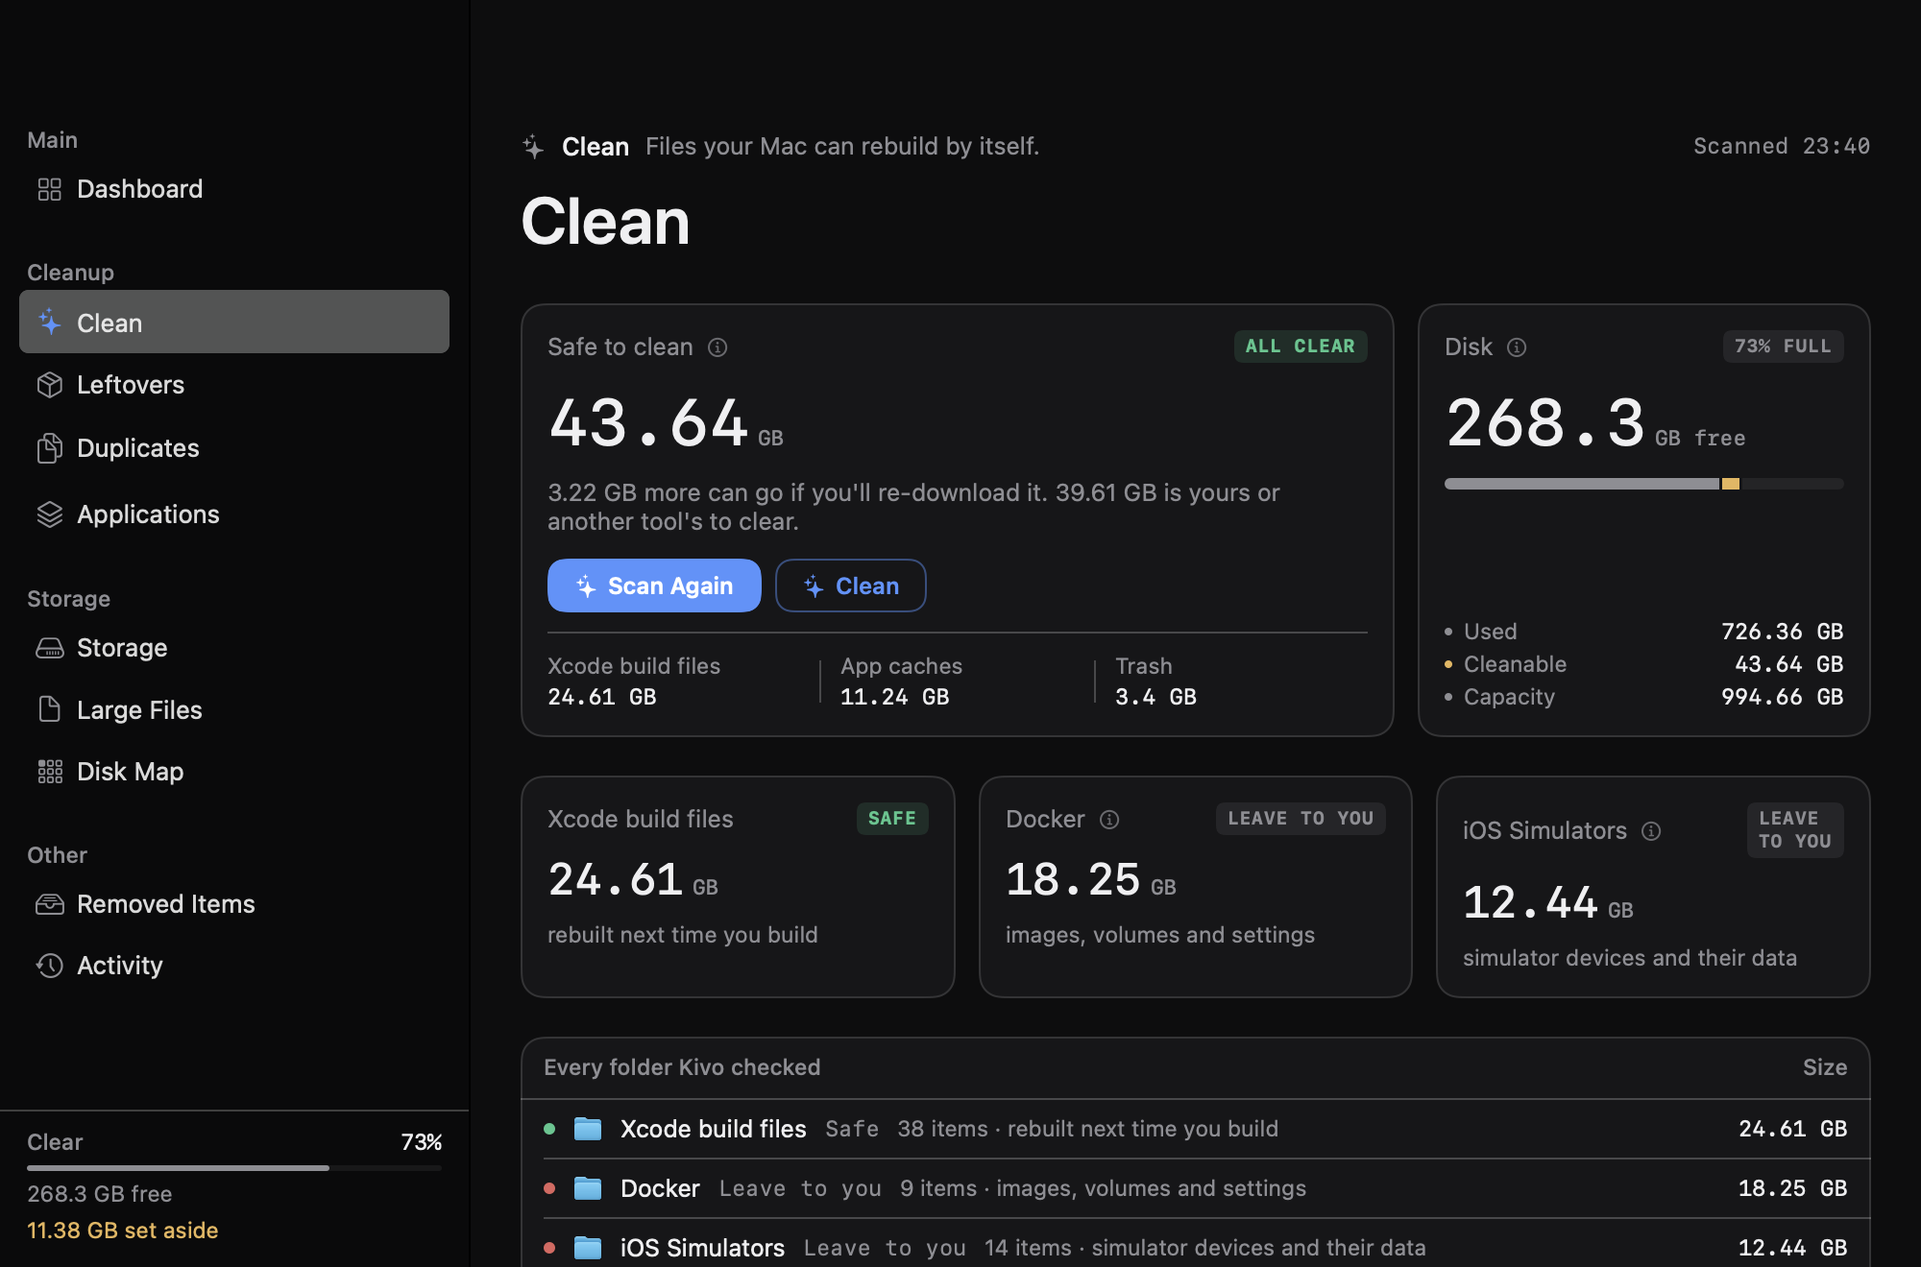
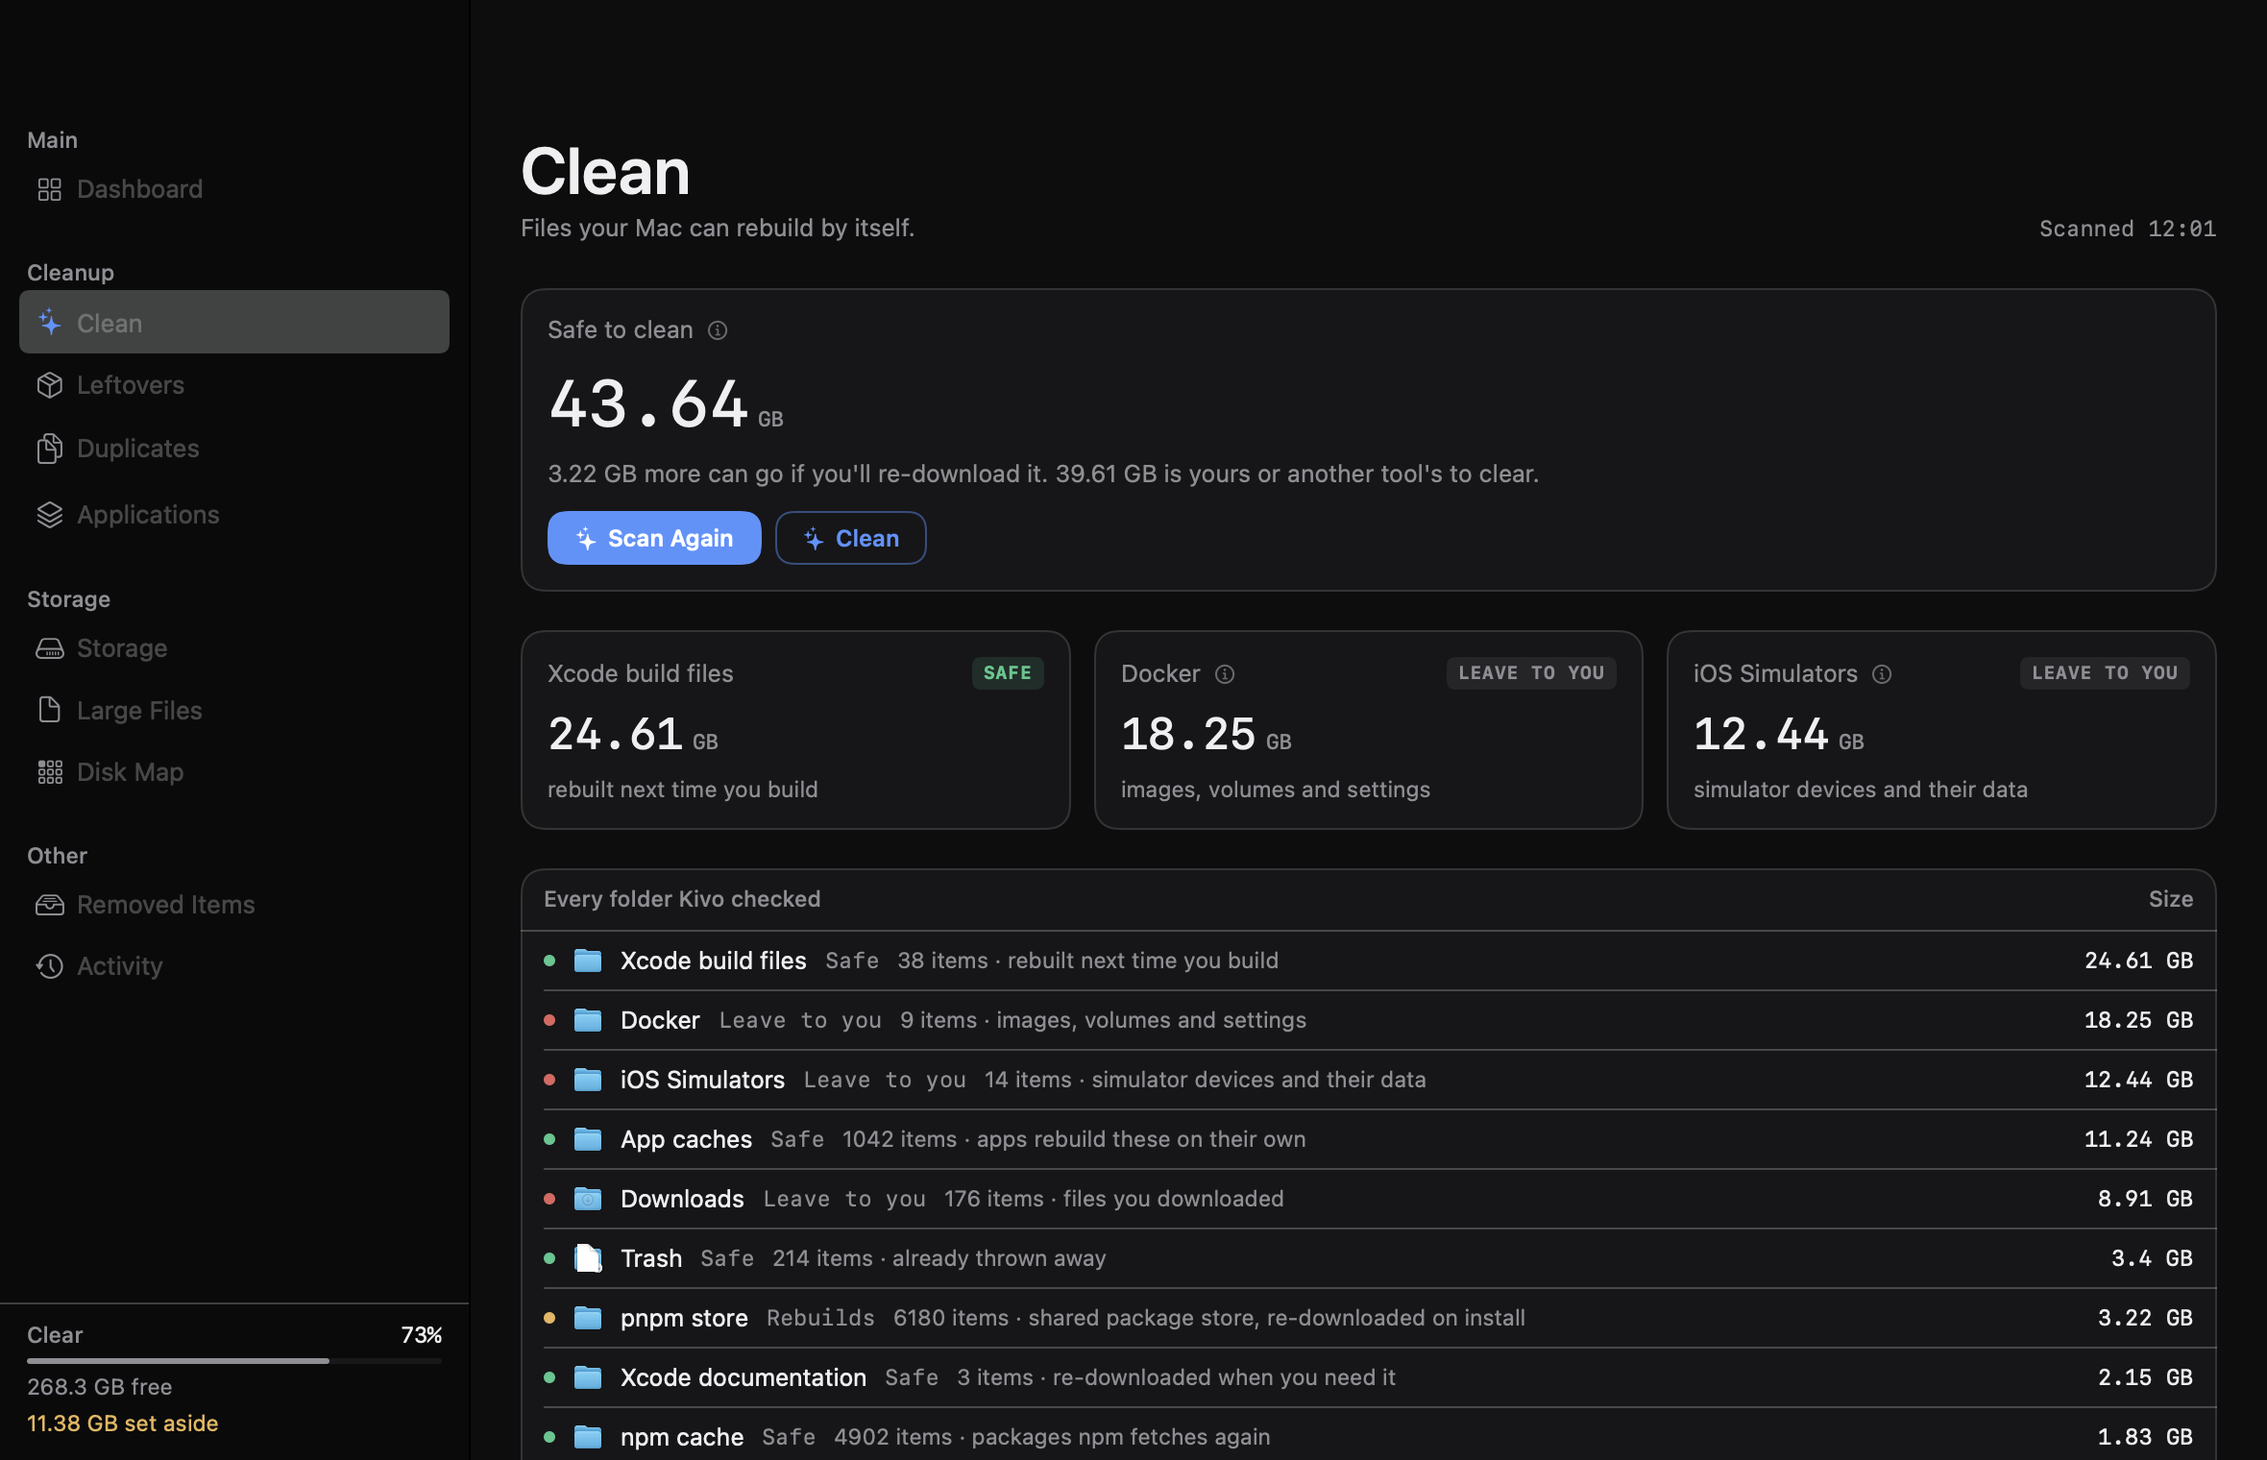
Stop every page from saying the same thing three times
Looking at all ten pages side by side, the messiness was repetition, not
styling. Storage printed 726.36 GB three times and 268.3 GB four times,
in four type sizes. Activity showed Scans, Cleanups and Set aside in a
strip inside the hero and then again as three cards directly underneath.
Every page named itself in an eyebrow and then again as the heading two
lines below. The disk card rode along on all ten pages, repeating the
free space and percentage the sidebar shows at all times. And a green
ALL CLEAR pill sat on every card of a healthy Mac, which the theme file
itself argues against.

So: one header block instead of two rows, the hero's breakdown strip
deleted in favour of the cards below it, the disk card only on the
dashboard and Storage, the status pill only when the status isn't good,
and no tile row at all on Storage, where all three tiles restated the
card beside them. The dashboard's Storage tile becomes Leftovers, a page
that had no presence there.

The hero now hugs its content unless there's a disk card to match, and
ByteCountFormatter's "Zero KB" becomes "0 bytes" — it was arriving as a
display-size headline on Activity and reading like a fault.

Screenshots refreshed; the capture waits for a window and sets one size
rather than trusting a fixed delay and whatever frame was left behind.

diff --git a/kivo/UI/ContentView.swift b/kivo/UI/ContentView.swift
@@ -109,6 +109,12 @@ struct PageView: View {
 
     @State private var uninstalling: InstalledApp?
 
+    /// The disk figure is the subject of these two pages and background
+    /// noise on the other eight.
+    private var showsDisk: Bool {
+        section == .overview || section == .storage
+    }
+
     private var config: SectionPageConfig {
         .config(for: section, store: store) { app in
             uninstalling = app
@@ -129,34 +135,30 @@ struct PageView: View {
         }
     }
 
+    /// Title, then what the page is, then when it was measured.
+    ///
+    /// This used to be two rows: an eyebrow naming the section and, under
+    /// it, a heading naming the section again. Every page but the
+    /// dashboard opened by saying its own name twice.
     private var header: some View {
 
-        VStack(alignment: .leading, spacing: 10) {
+        HStack(alignment: .lastTextBaseline, spacing: 12) {
 
-            HStack(spacing: 8) {
+            VStack(alignment: .leading, spacing: 3) {
 
-                Image(systemName: section.icon)
-                    .font(.system(size: 12, weight: .medium))
-                    .foregroundStyle(Color.kivoDim)
-
-                Text(section.title)
-                    .font(.system(size: 13, weight: .medium))
+                Text(section == .overview ? greeting : section.title)
+                    .font(KivoFont.pageTitle)
                     .foregroundStyle(Color.kivoText)
 
                 Text(section.subtitle)
                     .font(KivoFont.body)
                     .foregroundStyle(Color.kivoDim)
                     .lineLimit(1)
-
-                Spacer(minLength: 12)
-
-                headerStamp
             }
 
-            Text(section == .overview ? greeting : section.title)
-                .font(KivoFont.pageTitle)
-                .foregroundStyle(Color.kivoText)
+            Spacer(minLength: 12)
 
+            headerStamp
         }
         .padding(.bottom, 4)
         .accessibilityAddTraits(.isHeader)
@@ -241,21 +243,35 @@ struct PageView: View {
                             config: config,
                             status: status,
                             store: store,
+                            matchesDisk: showsDisk,
                             onOpen: onOpen
                         )
 
-                        DiskCard(store: store)
-                            .frame(width: 236)
-                    }
-                    .fixedSize(horizontal: false, vertical: true)
+                        // Only where the disk is the subject. It used to
+                        // ride along on all ten pages, repeating the free
+                        // space, the percentage and the capacity that the
+                        // sidebar already shows at all times.
+                        if showsDisk {
 
-                    HStack(alignment: .top, spacing: KivoMetrics.gridSpacing) {
-
-                        ForEach(config.tiles) { tile in
-                            MetricCard(tile: tile)
+                            DiskCard(store: store)
+                                .frame(width: 236)
                         }
                     }
                     .fixedSize(horizontal: false, vertical: true)
+
+                    // A page is allowed to have none: an empty row still
+                    // costs a gap in the stack, which reads as something
+                    // failing to load.
+                    if !config.tiles.isEmpty {
+
+                        HStack(alignment: .top, spacing: KivoMetrics.gridSpacing) {
+
+                            ForEach(config.tiles) { tile in
+                                MetricCard(tile: tile)
+                            }
+                        }
+                        .fixedSize(horizontal: false, vertical: true)
+                    }
 
                     // Takes the slack instead of a trailing spacer, so a tall
                     // window grows the list rather than the empty space under it.
@@ -282,6 +298,13 @@ struct HeroCard: View {
     let config: SectionPageConfig
     let status: KivoStatus
     @ObservedObject var store: ScanStore
+
+    /// Stretch to the disk card's height when there is one beside it, and
+    /// otherwise hug the content. Without this the hero kept the height it
+    /// needed back when it carried a breakdown strip, and pages that no
+    /// longer have one opened with a tall empty box.
+    var matchesDisk: Bool = false
+
     var onOpen: (SidebarSection) -> Void = { _ in }
 
     @State private var showClean = false
@@ -300,7 +323,7 @@ struct HeroCard: View {
         KivoCard(
             padding: 14,
             accent: isScanning ? .kivoAccent : nil,
-            fillsHeight: true
+            fillsHeight: matchesDisk
         ) {
 
             VStack(alignment: .leading, spacing: 10) {
@@ -311,9 +334,12 @@ struct HeroCard: View {
 
                 } else {
 
+                    // Only when it isn't good news. "ALL CLEAR" on every
+                    // page of a healthy Mac is a pill the eye stops
+                    // reading, which is the whole argument against it.
                     KivoCardLabel(
                         text: config.metricLabel,
-                        trailing: status.label,
+                        trailing: status == .good ? nil : status.label,
                         trailingTint: status.tint,
                         info: config.info
                     )
@@ -395,10 +421,10 @@ struct HeroCard: View {
                 }
                 .padding(.top, 2)
 
-                if !isScanning {
-                    Divider().overlay(Color.kivoBorder)
-                    scope
-                }
+                // The breakdown that used to sit here, under a divider,
+                // is the row of cards below the hero: on Storage and
+                // Activity it was the same three figures twice, a few
+                // millimetres apart in two different type sizes.
             }
         }
         .accessibilityElement(children: .contain)
@@ -518,40 +544,14 @@ struct HeroCard: View {
         return config.subline
     }
 
-    private var scope: some View {
-
-        HStack(spacing: 0) {
-
-            ForEach(Array(config.scope.enumerated()), id: \.element.id) { index, item in
-
-                if index > 0 {
-                    Divider().frame(height: 22).overlay(Color.kivoBorder)
-                }
-
-                VStack(alignment: .leading, spacing: 2) {
-
-                    Text(item.title)
-                        .font(.system(size: 11.5))
-                        .foregroundStyle(Color.kivoDim)
-                        .lineLimit(1)
-
-                    Text(isScanning ? "···" : (item.state ?? config.scopeState))
-                        .font(KivoFont.mono)
-                        .foregroundStyle(Color.kivoText)
-                        .lineLimit(1)
-                }
-                .frame(maxWidth: .infinity, alignment: .leading)
-                .padding(.leading, index > 0 ? 10 : 0)
-                .accessibilityElement(children: .combine)
-            }
-        }
-    }
 }
 
 // MARK: - Disk
 
-/// The one card that's on every screen: the disk is the context for
-/// everything else Kivo reports.
+/// The volume, broken into what's used, what Kivo could clear and what
+/// the disk holds. On the dashboard and the Storage page only: everywhere
+/// else the sidebar's own free-space line is the context, and this card
+/// repeated it.
 struct DiskCard: View {
 
     @ObservedObject var store: ScanStore

diff --git a/kivo/UI/SectionContent.swift b/kivo/UI/SectionContent.swift
@@ -198,17 +198,18 @@ extension SectionPageConfig {
                     home folder. It only reads. Kivo cannot delete anything yet.
                     """,
                 tiles: [
+                    // Not Storage: the disk card sits beside this row and
+                    // already gives used, cleanable and capacity. This
+                    // slot goes to a page that otherwise has no presence
+                    // on the dashboard at all.
                     .init(
-                        icon: "internaldrive.fill",
-                        title: "Storage",
-                        value: store.volume?.used.byteLabel ?? dash,
-                        detail: store.volume.map { "of \($0.total.byteLabel) used" }
-                            ?? "startup disk",
-                        pillText: store.volume.map { "\(Int($0.fraction * 100))% full" },
-                        pillTint: quietUnlessBusy(store.volume?.fraction),
-                        fraction: store.volume?.fraction,
-                        barTint: quietUnlessBusy(store.volume?.fraction),
-                        info: diskInfo
+                        icon: "shippingbox.fill",
+                        title: "Leftovers",
+                        value: value(.orphans, store.orphanBytes.byteLabel),
+                        detail: store.has(.orphans)
+                            ? count(.orphans, store.orphans.count, "folder") + " from apps you removed"
+                            : "not measured yet",
+                        info: "Support files whose app Kivo can't find anywhere on this Mac."
                     ),
                     // Not "safe to clean" again: the hero above already
                     // leads with that figure, and a card repeating it is a
@@ -626,36 +627,12 @@ extension SectionPageConfig {
                 metricLabel: "Used",
                 metricValue: volume?.used.byteLabel ?? dash,
                 info: diskInfo,
-                tiles: [
-                    .init(
-                        icon: "internaldrive.fill",
-                        title: "Used",
-                        value: volume?.used.byteLabel ?? dash,
-                        detail: volume.map { "of \($0.total.byteLabel)" } ?? "capacity",
-                        pillText: volume.map { "\(Int($0.fraction * 100))% full" },
-                        pillTint: diskTint(volume?.fraction),
-                        fraction: volume?.fraction,
-                        barTint: diskTint(volume?.fraction)
-                    ),
-                    .init(
-                        icon: "externaldrive",
-                        title: "Free",
-                        value: volume?.free.byteLabel ?? dash,
-                        detail: "available now",
-                        pillText: volume == nil ? nil : "Live",
-                        pillTint: .kivoGood,
-                        info: diskInfo
-                    ),
-                    .init(
-                        icon: "square.stack.3d.up.fill",
-                        title: "Applications",
-                        value: value(.applications, store.appsBytes.byteLabel),
-                        detail: store.has(.applications)
-                            ? count(.applications, store.apps.count, "app") + " installed"
-                            : "scan Applications to measure",
-                        info: "Measured on the Applications page. A disk scan leaves it alone, since sizing every bundle takes far longer than reading the volume."
-                    )
-                ],
+                // No tiles. The headline is Used, the card beside it
+                // breaks the same volume into used, cleanable and
+                // capacity, and a row of Used / Free / Applications under
+                // both said all of it a third time. What the page was
+                // missing is underneath: where the space actually went.
+                tiles: [],
                 listTitle: "Biggest contributors",
                 listRows: [
                     .init(

diff --git a/kivo/Core/DemoData.swift b/kivo/Core/DemoData.swift
@@ -206,20 +206,60 @@ enum DemoMode {
         // makes every screenshot look like a disabled app.
         NSApp.activate(ignoringOtherApps: true)
 
-        // Long enough for the page transition and the app icons to land.
-        DispatchQueue.main.asyncAfter(deadline: .now() + 1.6) {
+        // Wait for a window rather than guessing at a delay. A fixed
+        // 1.6 seconds was enough on a warm launch and not enough on the
+        // first run of a fresh build, where macOS validates the signature
+        // first: the capture found no window and quit, silently, which
+        // read as "the script is broken".
+        attempt(0, writingTo: path)
+    }
 
-            guard let window = NSApp.windows.first(where: \.isVisible),
-                  let view = window.contentView,
-                  let rep = view.bitmapImageRepForCachingDisplay(in: view.bounds)
-            else { exit(1) }
+    private static func attempt(_ count: Int, writingTo path: String) {
 
-            view.cacheDisplay(in: view.bounds, to: rep)
+        DispatchQueue.main.asyncAfter(deadline: .now() + 0.4) {
 
-            try? rep.representation(using: .png, properties: [:])?
-                .write(to: URL(fileURLWithPath: path))
+            // Not "isVisible": a window launched from a script can be laid
+            // out and sized while still ordered out, and waiting for it to
+            // become visible waits forever. What matters is that it exists
+            // and has been given a size.
+            let ready = NSApp.windows.first {
+                $0.contentView.map { view in
+                    view.bounds.width > 200 && view.bounds.height > 200
+                } == true
+            }
 
-            exit(0)
+            guard let window = ready, let view = window.contentView else {
+
+                // 20 seconds, then give up loudly rather than hang a build.
+                guard count < 50 else {
+                    FileHandle.standardError.write(
+                        Data("kivo: no window to capture\n".utf8)
+                    )
+                    exit(1)
+                }
+
+                return attempt(count + 1, writingTo: path)
+            }
+
+            // One size for every screenshot, whatever frame the last
+            // session left behind, so the README's pictures line up
+            // instead of each being whatever the window happened to be.
+            window.setContentSize(NSSize(width: 1180, height: 760))
+            window.makeKeyAndOrderFront(nil)
+
+            // One more beat, for the page transition and the app icons.
+            DispatchQueue.main.asyncAfter(deadline: .now() + 1.2) {
+
+                guard let rep = view.bitmapImageRepForCachingDisplay(in: view.bounds)
+                else { exit(1) }
+
+                view.cacheDisplay(in: view.bounds, to: rep)
+
+                try? rep.representation(using: .png, properties: [:])?
+                    .write(to: URL(fileURLWithPath: path))
+
+                exit(0)
+            }
         }
     }
 }

diff --git a/kivo/Core/SystemScanner.swift b/kivo/Core/SystemScanner.swift
@@ -486,6 +486,19 @@ extension Int64 {
     /// Decimal units, matching what Finder and About This Mac report — the
     /// numbers the user can check Kivo against.
     var byteLabel: String {
-        ByteCountFormatter.string(fromByteCount: self, countStyle: .file)
+        Self.formatter.string(fromByteCount: self)
     }
+
+    /// Held rather than made per call, and with the spelled-out zero
+    /// turned off: ByteCountFormatter says "Zero KB" by default, which
+    /// arrived as a display-size headline on the Activity page and reads
+    /// like a fault rather than a count.
+    private static let formatter: ByteCountFormatter = {
+
+        let formatter = ByteCountFormatter()
+        formatter.countStyle = .file
+        formatter.allowsNonnumericFormatting = false
+
+        return formatter
+    }()
 }
